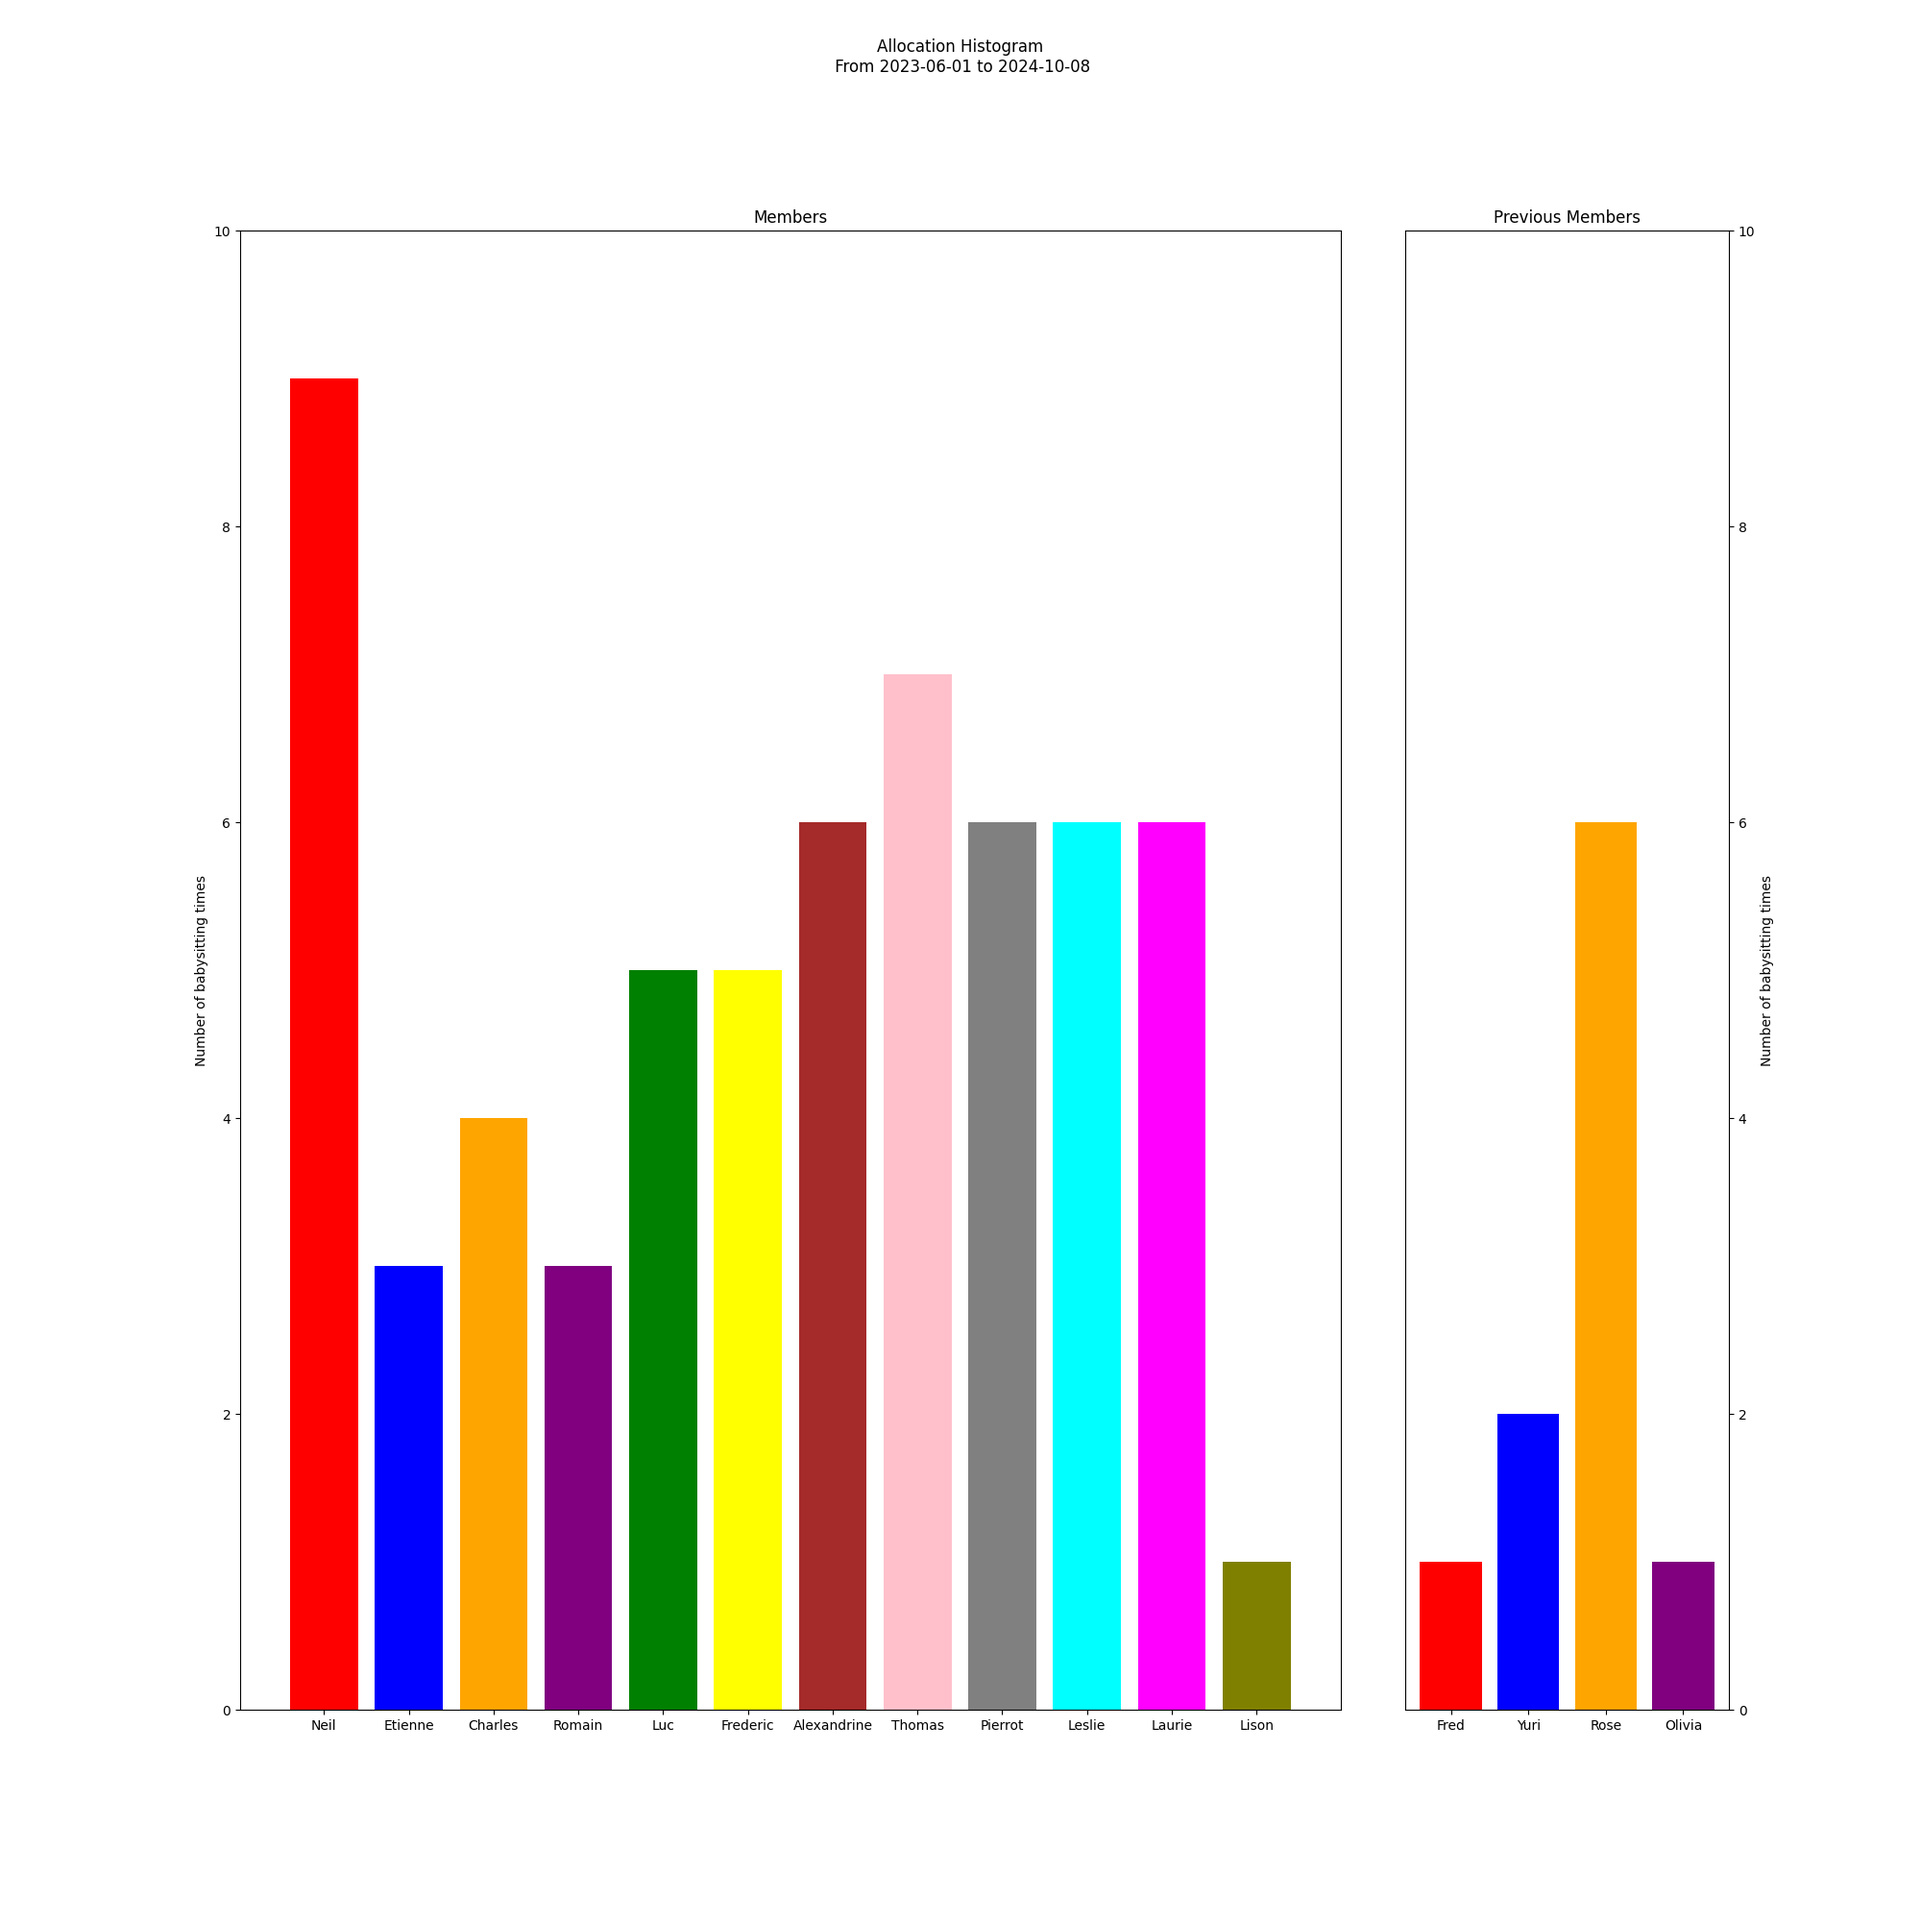
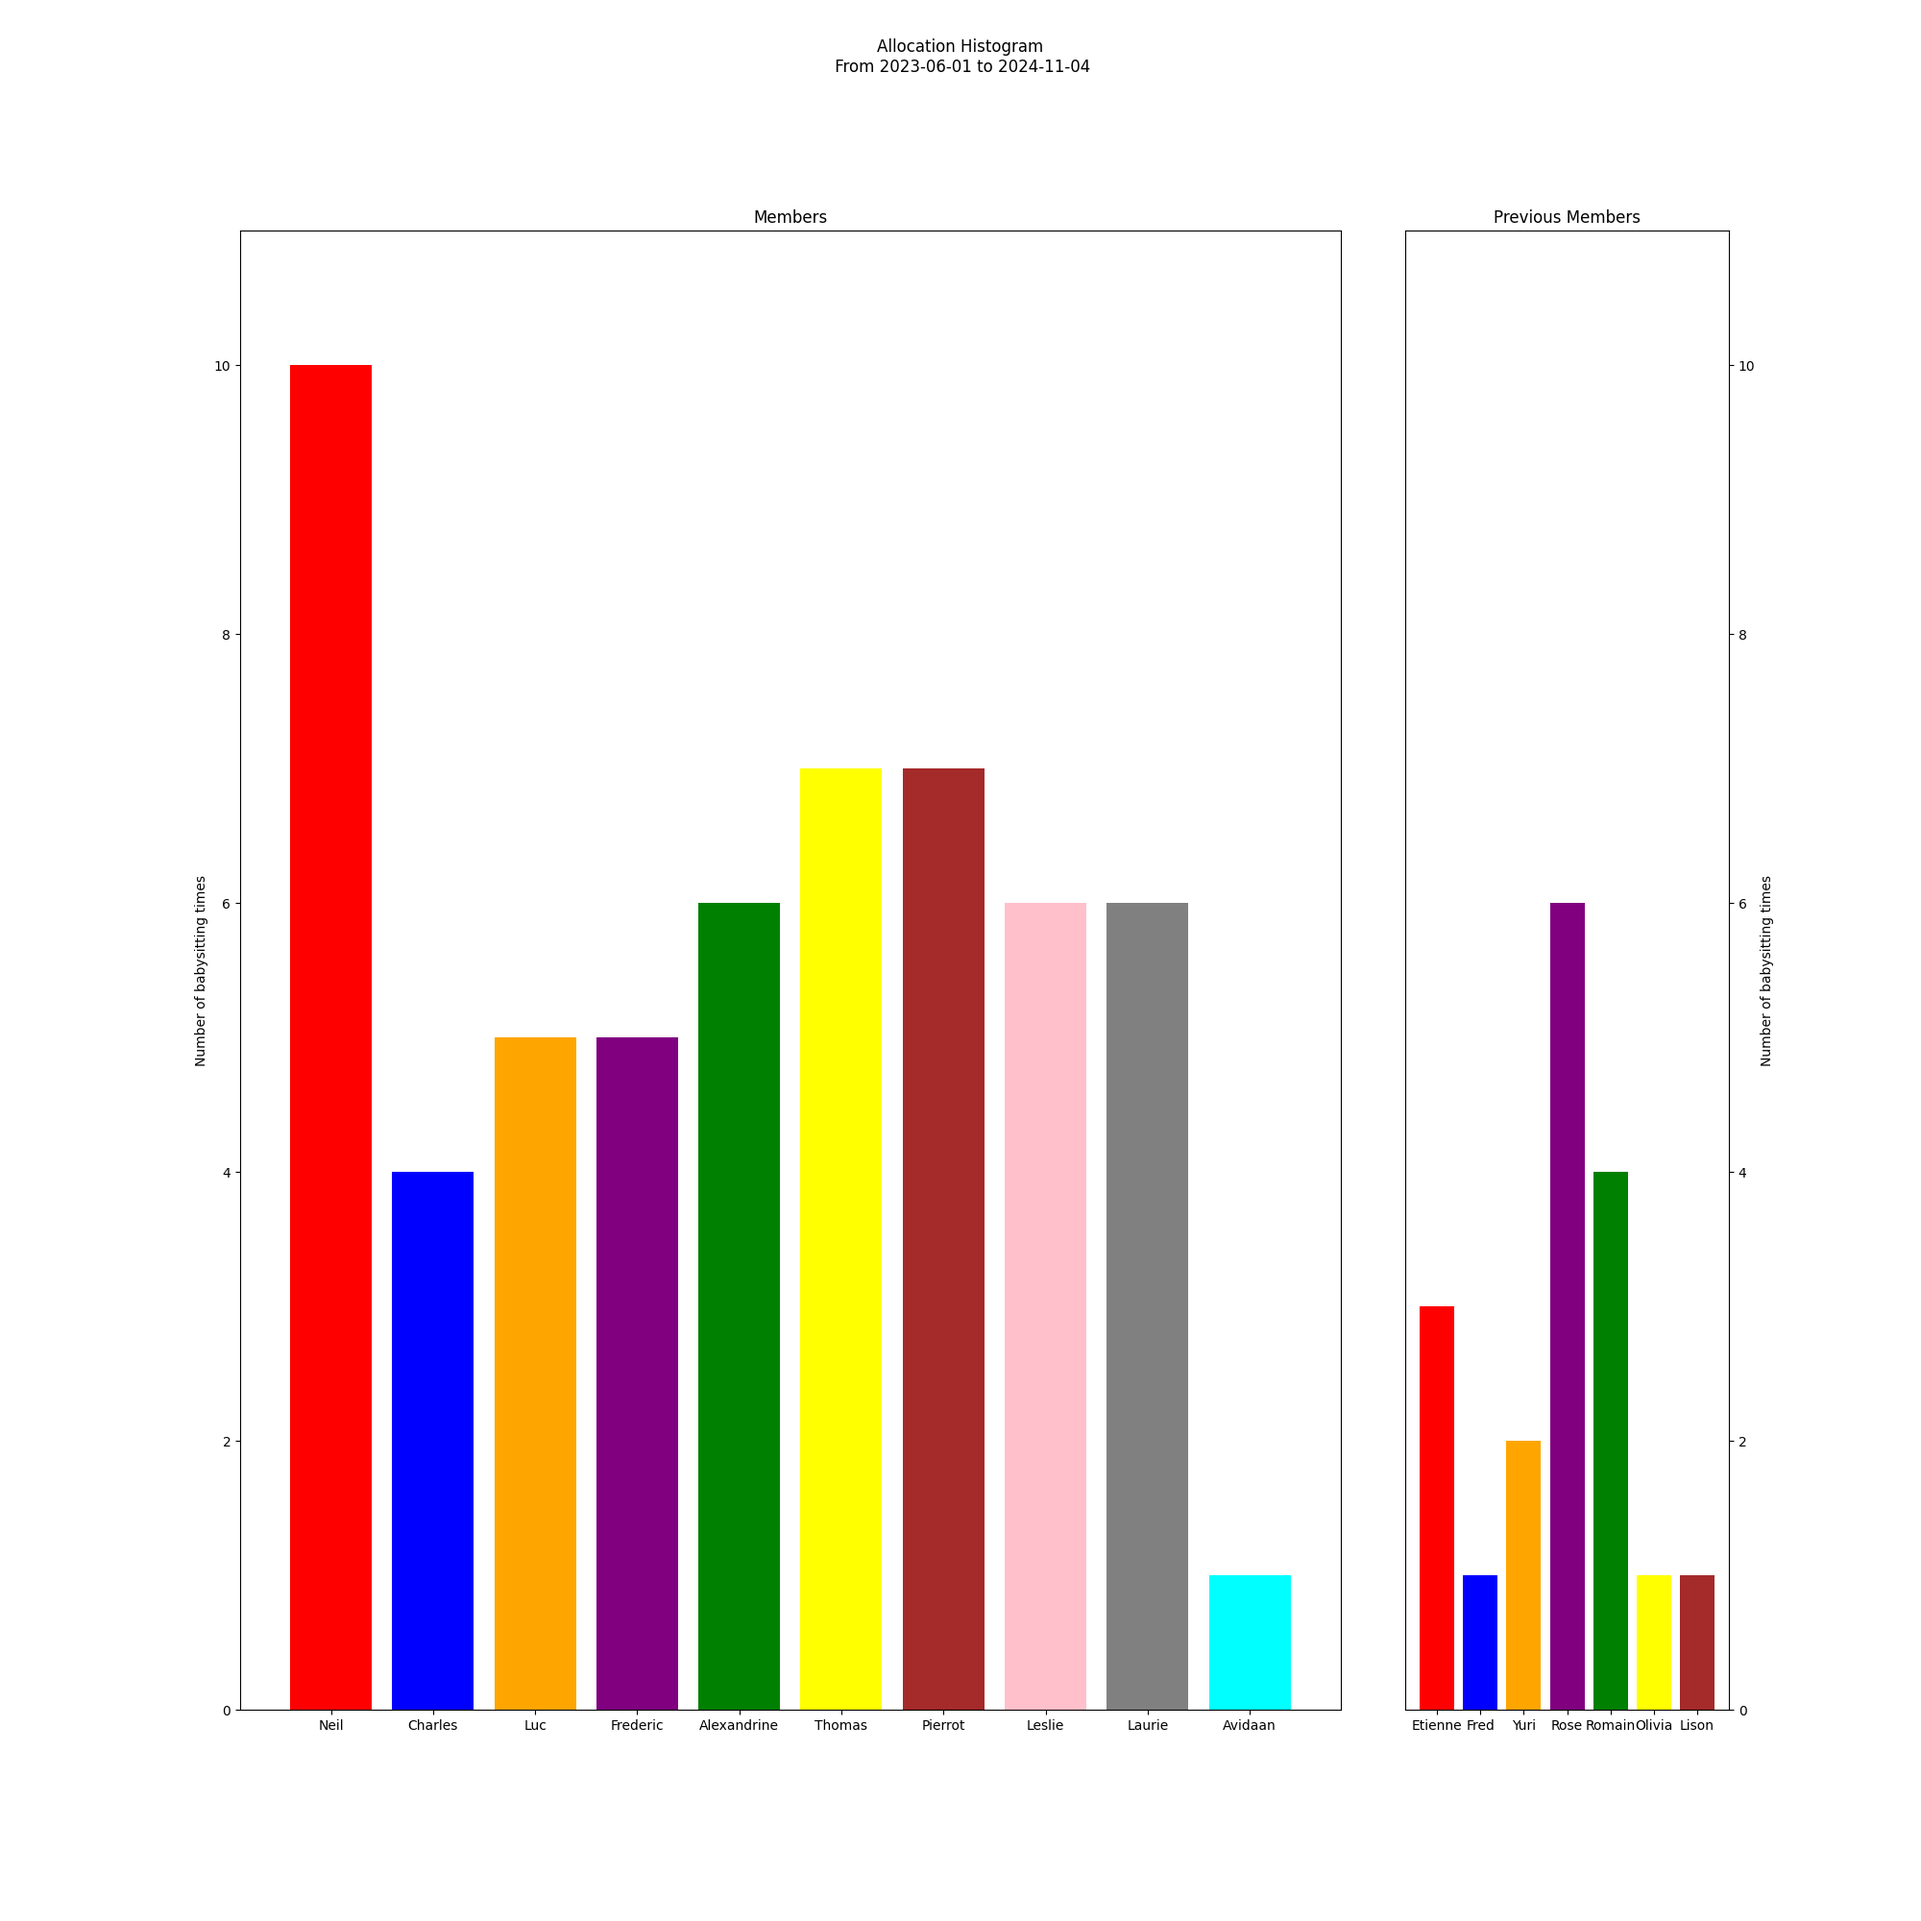
[APERO_CHECKS] Change PREV_SCI to NO_SCI

Changed region(s): [[0.155, 0.186, 0.682, 0.899], [0.713, 0.403, 0.899, 0.899]]

diff --git a/nirps/apero_check/apero_checks/raw_tests/__init__.py b/nirps/apero_check/apero_checks/raw_tests/__init__.py
@@ -17,7 +17,7 @@ from apero_checks.raw_tests import eng_test
 from apero_checks.raw_tests import obsdir_test
 from apero_checks.raw_tests import qual_test
 from apero_checks.raw_tests import astrom_test
-from apero_checks.raw_tests import prev_sci_test
+from apero_checks.raw_tests import no_sci_test
 
 # =============================================================================
 # Append your test here
@@ -69,7 +69,7 @@ test_dict['ASTROM_TEST'] = astrom_test.test
 
 # previous science data test - this tests whether the previous 3 nights had
 #                              science data
-test_dict['PREV_SCI'] = prev_sci_test.test
+test_dict['NO_SCI'] = no_sci_test.test
 
 # test 1 - explanation
 

diff --git a/nirps/apero_check/manage_checks.py b/nirps/apero_check/manage_checks.py
@@ -41,7 +41,7 @@ ALLOCATION_START = '2023-06-01'
 # Start plot from this date
 COMMENT_START = '2024-08-01'
 # Name people who have left
-EX_MEMBERS = ['Fred', 'Yuri', 'Rose', 'Olivia']
+EX_MEMBERS = ['Fred', 'Yuri', 'Rose', 'Olivia', 'Romain', 'Etienne', 'Lison']
 # Ignore these columns when checking for False in check tables
 IGNORE_COLS = ['obsdir', 'date', 'BLANK']
 
